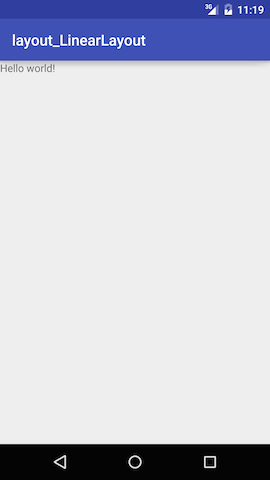
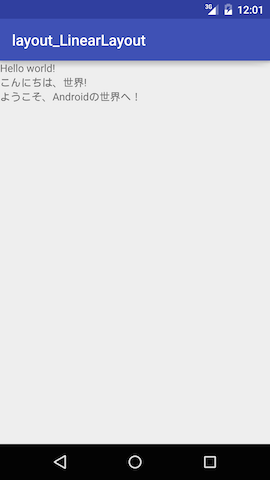
サンプルの内容を一部修正し、正誤表に追記 #11

Changed region(s): [[0.0, 0.1562, 0.4741, 0.2188], [0.8889, 0.0, 0.9778, 0.0312]]

diff --git a/ERRATA.md b/ERRATA.md
@@ -22,8 +22,36 @@
 
 
 ## <a name="Chapter-1"></a>Chapter 1
+
+### P.4
 ■ サンプル layout_LinearLayout
-* Android Studio 1.4で生成した時、画面イメージが変更となったので差し替え   
+* Android Studio 1.4を元にプロジェクトを作り直しました。
+* 掲載時のサンプルでは、LinearLayoutを利用していることがわかりにくいものであったことから、以下の様なコードに変更しています。  
+```xml
+<LinearLayout xmlns:android="http://schemas.android.com/apk/res/android"
+    android:layout_width="match_parent"
+    android:layout_height="match_parent"
+    android:orientation="vertical">
+
+    <TextView
+        android:layout_width="wrap_content"
+        android:layout_height="wrap_content"
+        android:text="@string/hello_world" />
+
+    <TextView
+        android:layout_width="wrap_content"
+        android:layout_height="wrap_content"
+        android:text="@string/hello_world_ja" />
+
+    <TextView
+        android:layout_width="wrap_content"
+        android:layout_height="wrap_content"
+        android:text="@string/welcome_to_android" />
+
+</LinearLayout>
+```
+
+* 画面イメージが変更となったので差し替えを行っています。   
 ![結果](https://raw.githubusercontent.com/shige0501/android-sdk-pokeri/update-chapter01/Chapter01/picture/capture_layout_LinearLayout.png)
 
 ## <a name="Chapter-2"></a>Chapter 2
